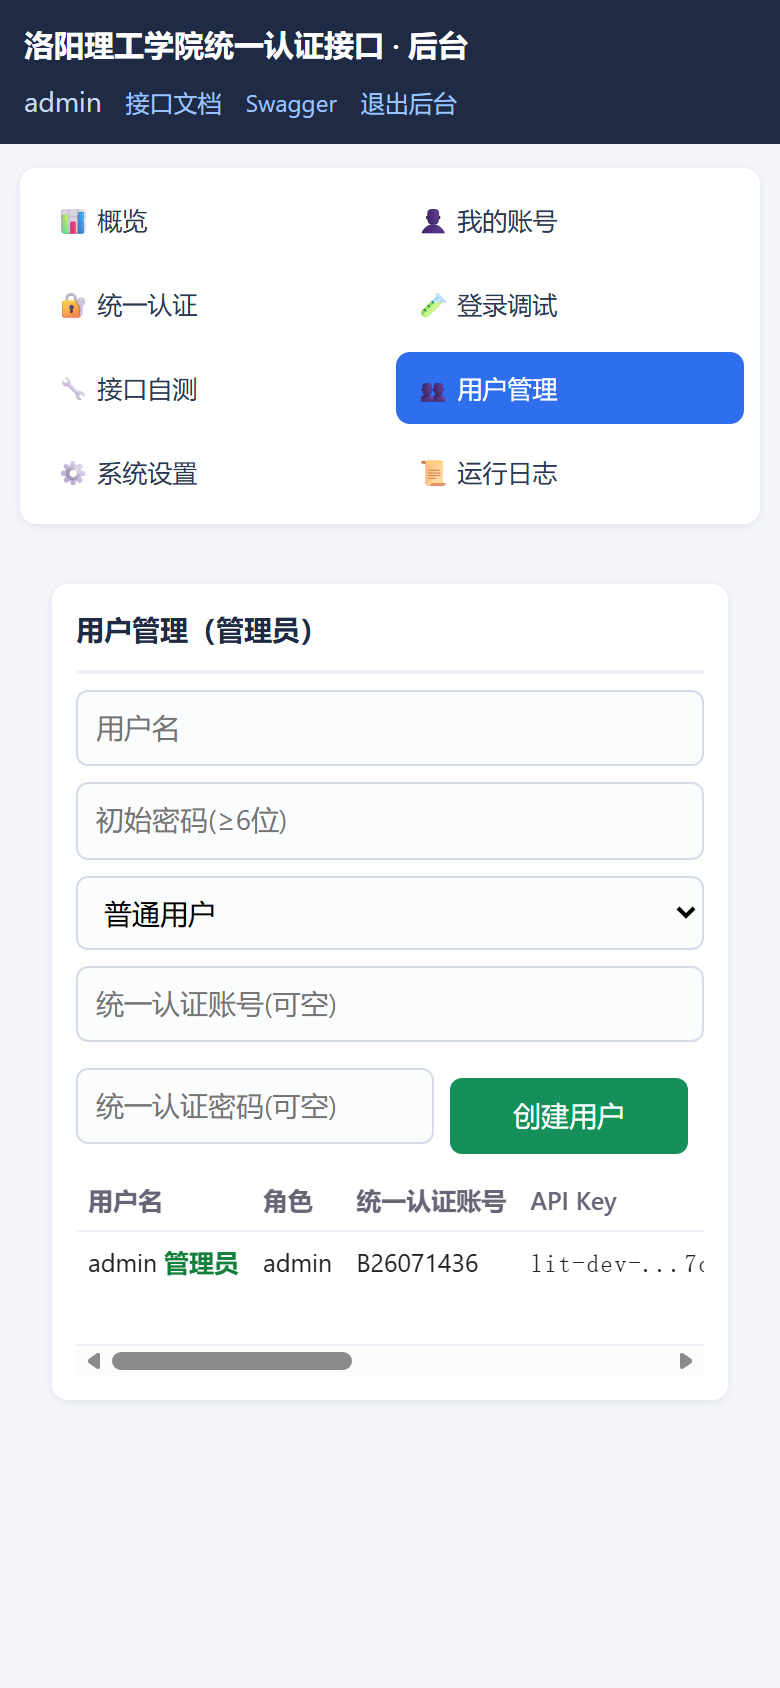
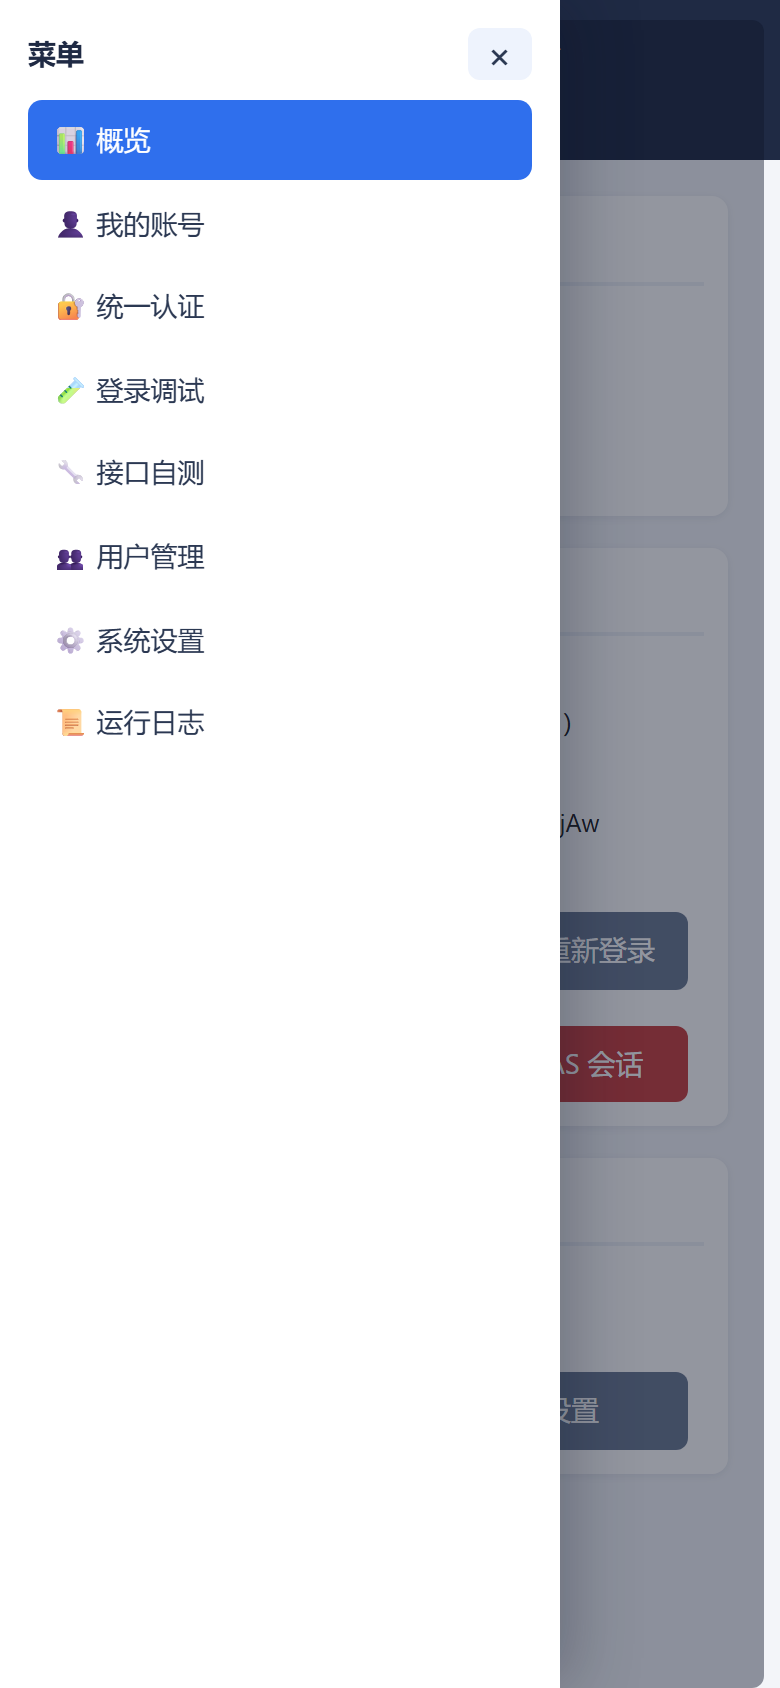
feat: mobile admin navigation as off-canvas drawer (hamburger menu) instead of stacking all menus

diff --git a/app/routers/admin.py b/app/routers/admin.py
@@ -520,11 +520,30 @@ _DASHBOARD_TMPL = """<!doctype html>
 .panel{display:none;flex-direction:column;gap:16px}
 .panel.active{display:flex}
 .card-row{display:grid;grid-template-columns:1fr 1fr;gap:16px}
-@media(max-width:900px){.shell{flex-direction:column;align-items:stretch}.menu{width:100%;position:static;display:flex;flex-wrap:wrap}.content{width:100%;min-width:0}.card-row{grid-template-columns:1fr}}
+.menu-toggle{display:none}
+.menu-backdrop{display:none}
+.menu-mobile-head{display:none}
+@media(max-width:900px){
+ header{flex-wrap:wrap;gap:8px;padding:12px 14px}
+ .menu-toggle{display:inline-flex;align-items:center;justify-content:center;width:auto;margin:0;padding:7px 12px;border-radius:8px;background:rgba(255,255,255,.14);color:#fff;font-size:16px;line-height:1;cursor:pointer}
+ header h1{font-size:16px;flex:1;min-width:0}
+ header .header-links{display:flex;flex-wrap:wrap;gap:4px 12px;align-items:center}
+ header a{margin-left:0;font-size:12.5px}
+ .shell{display:block;padding:0 12px;margin:12px auto}
+ .content{width:100%;min-width:0;gap:12px}
+ .card-row{grid-template-columns:1fr}
+ .menu{position:fixed;top:0;left:0;bottom:0;width:280px;max-width:82vw;z-index:60;border-radius:0;box-shadow:8px 0 30px rgba(10,20,40,.25);transform:translateX(-105%);transition:transform .25s ease;overflow-y:auto;padding:14px}
+ .menu.open{transform:none}
+ .menu-mobile-head{display:flex;align-items:center;justify-content:space-between;gap:8px;margin:0 0 10px;font-size:14px;color:#1f2a44;font-weight:600}
+ .menu-close{width:auto;margin:0;padding:4px 10px;border:0;border-radius:6px;background:#eef3fd;color:#2b3852;font-size:18px;line-height:1;cursor:pointer}
+ .menu-item{display:block;margin:0 0 2px}
+ .menu-backdrop{display:none;position:fixed;inset:0;z-index:55;background:rgba(15,23,42,.45);border:0;padding:0;cursor:pointer}
+ .menu-backdrop.show{display:block}
+}
 @media(max-width:640px){
- .shell{padding:0 10px;margin:12px auto;gap:12px}
- .menu{display:grid;grid-template-columns:1fr 1fr;gap:6px;padding:8px;border-radius:8px;overflow:visible}
- .menu-item{flex:none;margin:0;padding:8px 10px;font-size:12.5px;white-space:normal}
+ header{padding:10px 12px}
+ header h1{font-size:15px}
+ .shell{padding:0 10px;margin:10px auto;gap:12px}
  .content{gap:12px}
  .card{padding:12px;border-radius:8px;min-width:0}
  .card h2{font-size:14px;margin-bottom:8px}
@@ -548,11 +567,14 @@ _DASHBOARD_TMPL = """<!doctype html>
 </style></head>
 <body>
 <header>
+  <button type="button" class="menu-toggle" id="menu-toggle" aria-label="打开菜单" aria-controls="admin-menu" aria-expanded="false">☰</button>
   <h1>__APP_NAME__ · 后台</h1>
-  <div><span id="who" style="color:#cbd8ee"></span><a href="/" target="_blank">接口文档</a><a href="/docs" target="_blank">Swagger</a><a href="/admin/logout">退出后台</a></div>
+  <div class="header-links"><span id="who" style="color:#cbd8ee"></span><a href="/" target="_blank">接口文档</a><a href="/docs" target="_blank">Swagger</a><a href="/admin/logout">退出后台</a></div>
 </header>
+<button type="button" class="menu-backdrop" id="menu-backdrop" aria-label="关闭菜单"></button>
 <div class="shell">
-  <aside class="menu">
+  <aside class="menu" id="admin-menu">
+    <div class="menu-mobile-head"><span>菜单</span><button type="button" class="menu-close" id="menu-close" aria-label="关闭菜单">×</button></div>
     <a class="menu-item active" data-panel="overview">📊 概览</a>
     <a class="menu-item" data-panel="account">👤 我的账号</a>
     <a class="menu-item" data-panel="cas">🔐 统一认证</a>
@@ -778,6 +800,25 @@ function fmt(v){return (v===undefined||v===null||v==='')?'-':esc(v);}
 let IS_ADMIN=false, CURRENT='overview';
 let casDirty=false;   // 统一认证表单是否被用户修改（避免 5s 自动刷新覆盖输入）
 
+function openMenu(){
+  const menu=$('admin-menu'), backdrop=$('menu-backdrop'), btn=$('menu-toggle');
+  if(menu) menu.classList.add('open');
+  if(backdrop) backdrop.classList.add('show');
+  if(btn) btn.setAttribute('aria-expanded','true');
+}
+function closeMenu(){
+  const menu=$('admin-menu'), backdrop=$('menu-backdrop'), btn=$('menu-toggle');
+  if(menu) menu.classList.remove('open');
+  if(backdrop) backdrop.classList.remove('show');
+  if(btn) btn.setAttribute('aria-expanded','false');
+}
+function toggleMenu(){const m=$('admin-menu');if(m&&m.classList.contains('open'))closeMenu();else openMenu();}
+$('menu-toggle')?.addEventListener('click',toggleMenu);
+$('menu-backdrop')?.addEventListener('click',closeMenu);
+$('menu-close')?.addEventListener('click',closeMenu);
+document.addEventListener('keydown',e=>{if(e.key==='Escape')closeMenu();});
+window.addEventListener('resize',()=>{if(window.innerWidth>900)closeMenu();});
+
 function gotoPanel(name){
   if(!name) name='overview';
   const panel=$('panel-'+name);
@@ -791,6 +832,7 @@ function gotoPanel(name){
   if(name==='logs') loadLogs();
   if(name==='settings'&&IS_ADMIN) loadSystemSettings();
   if(name==='users'&&IS_ADMIN) refresh();
+  closeMenu();
 }
 document.querySelectorAll('.menu-item').forEach(a=>{a.addEventListener('click',()=>gotoPanel(a.dataset.panel));});
 window.addEventListener('hashchange',()=>gotoPanel((location.hash||'#overview').slice(1)));

diff --git a/tests/test_admin.py b/tests/test_admin.py
@@ -226,6 +226,8 @@ def test_admin_mobile_css_and_table_wrap():
         assert 'class="table-wrap"' in html
         assert "users-table" in html
         assert "width=device-width" in html
+        assert "menu-toggle" in html and "menu-backdrop" in html
+        assert 'aria-controls="admin-menu"' in html
 
 
 def test_admin_schedule_selftest():

diff --git a/README.md b/README.md
@@ -341,7 +341,7 @@ curl -X POST "http://127.0.0.1:10381/api/v1/lljw/schedule" \
 
 ![后台系统设置](docs/admin-settings.png)
 
-移动端（390px 视口）已适配（菜单两列、表单全宽、用户表格横向滚动）：
+移动端（390px 视口）已适配：菜单为汉堡抽屉式，表单全宽，用户表格横向滚动：
 
 ![后台移动端](docs/admin-mobile.png)
 
